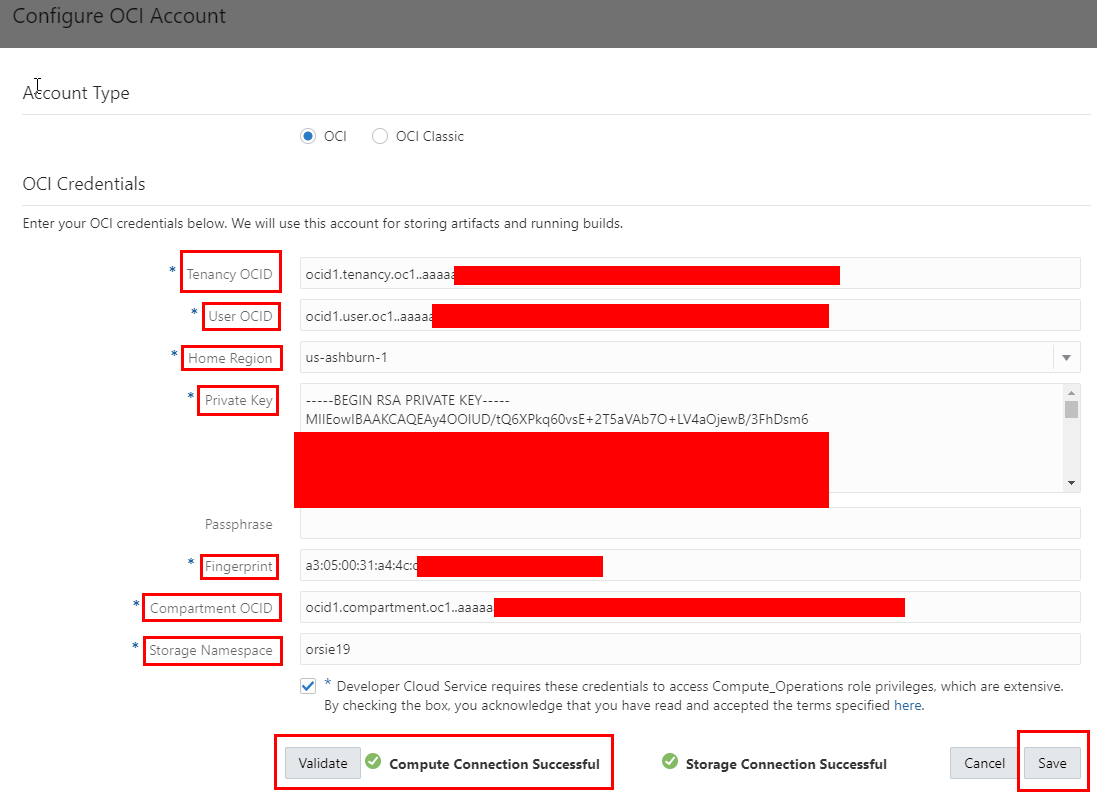
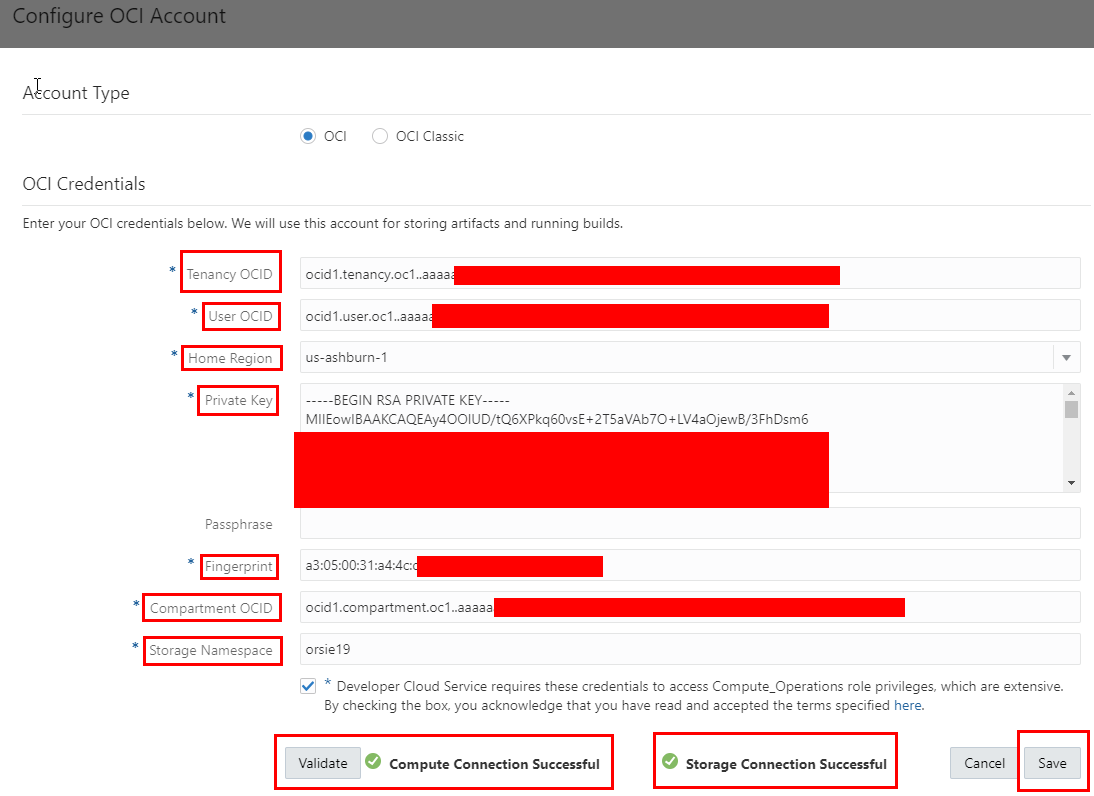
Updates for new trials

diff --git a/workshops/devcs-mysql/Lab100.md b/workshops/devcs-mysql/Lab100.md
@@ -451,7 +451,7 @@ You'll need to create two sets of SSH keys, the API key pair will allow access v
    - **Compartment OCID**
    - **Storage Namespace**
 
-- When all values are in place click the **Validate** button to confirm. If successfull, click **Save**.
+- When all values are in place click the **Validate** button to confirm. If Compute and Storage connections are successfull, click **Save**.
 
   ![](images/100/27-4.PNG)
 
